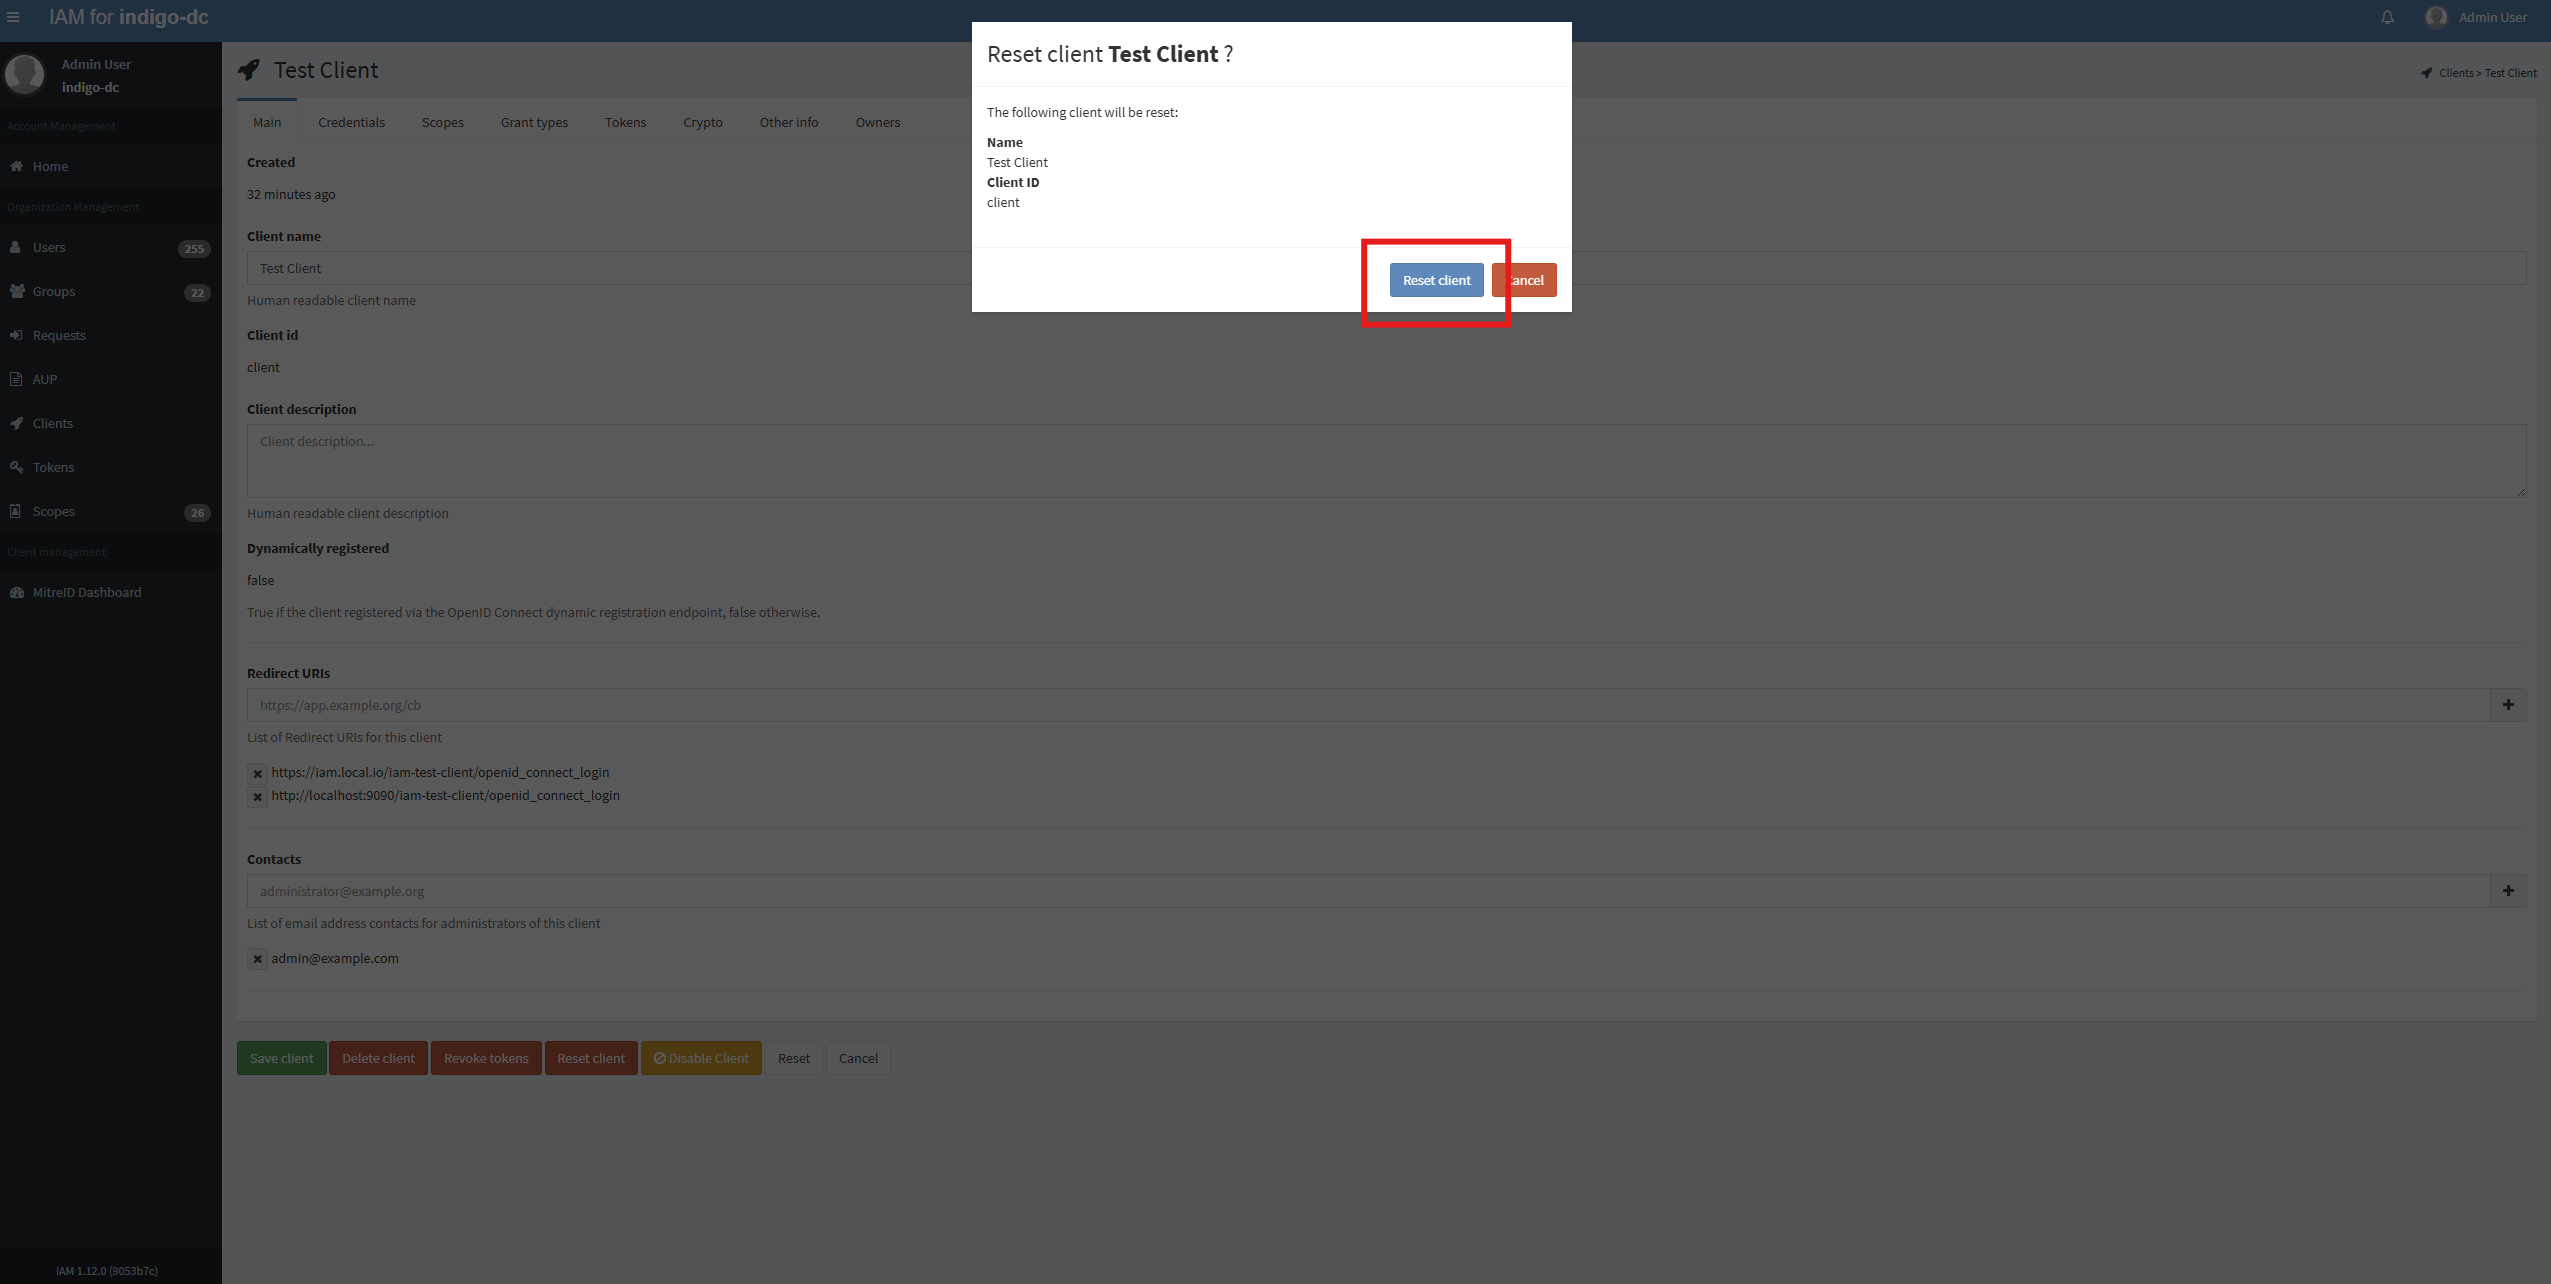
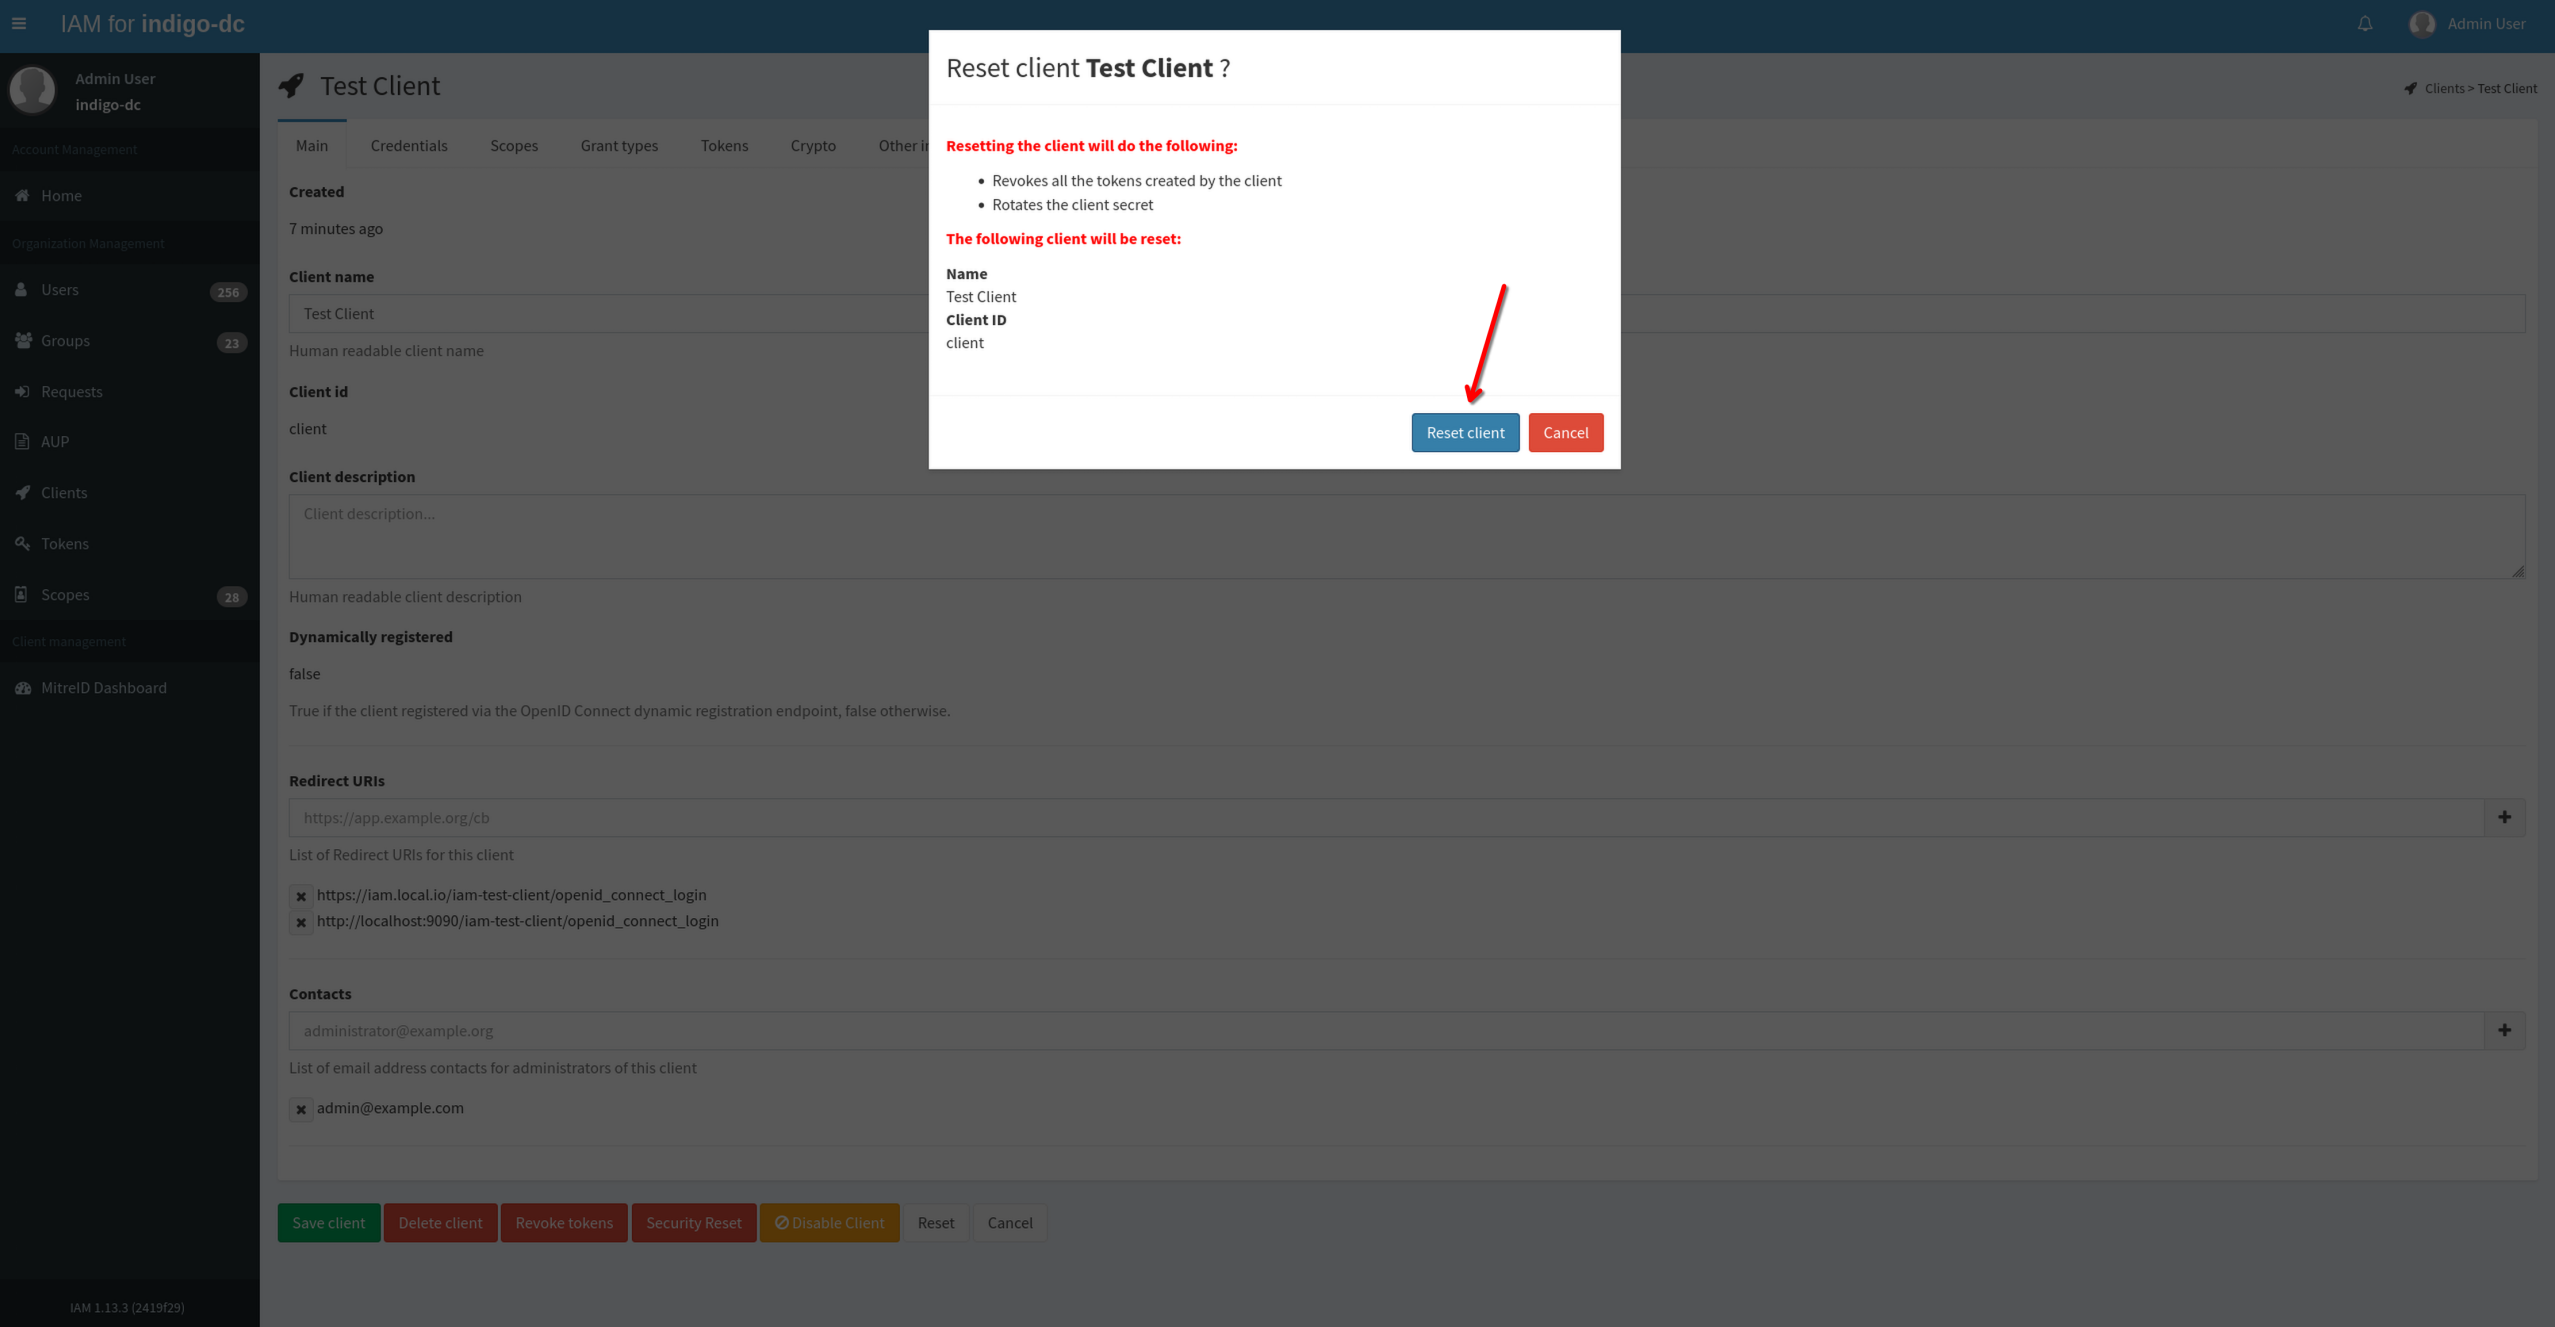
Updated the documentation do to the change in the buttons

diff --git a/content/en/docs/tasks/administration/client-reset/_index.md b/content/en/docs/tasks/administration/client-reset/_index.md
@@ -1,8 +1,8 @@
 ---
-title: Reset Client or Revoke Tokens
+title: Security Reset a Client or Revoke Tokens
 weight: 2
 ---
-Existing clients can have their tokens revoked or be reset by Administrator from dashboard.
+Existing clients can have their tokens revoked or be get a security reset by an Administrator from dashboard.
 
 ## Revoking a client's tokens using the dashboard
 
@@ -27,6 +27,10 @@ On success you will get a confirmation message and you will be redirected to the
 
 ![revoke tokens confirmation](../images/client-revoke-3.png)
 
+## Doing a Security-reset
+
+A security reset will revoke all the tokens issued to that client and rotate the client secret. 
+The intention of this is that given one knows the client has been compromised, then it is easily and quickly possible to reset all access for that given client. 
 
 Log into the service using admin credentials and click on the _Clients_ link on the left
 navigation bar:
@@ -37,7 +41,7 @@ From the _Clients_ link, select _Any client_ you want to disable, for example _T
 
 ![client list](../images/client-status-change-2.png)
 
-To reset the client click on _Reset Client_ button on the bottom of the page:
+To do a security reset of the client click on _Security Reset_ button on the bottom of the page:
 
 ![reset client button](../images/client-reset-1.png)
 
